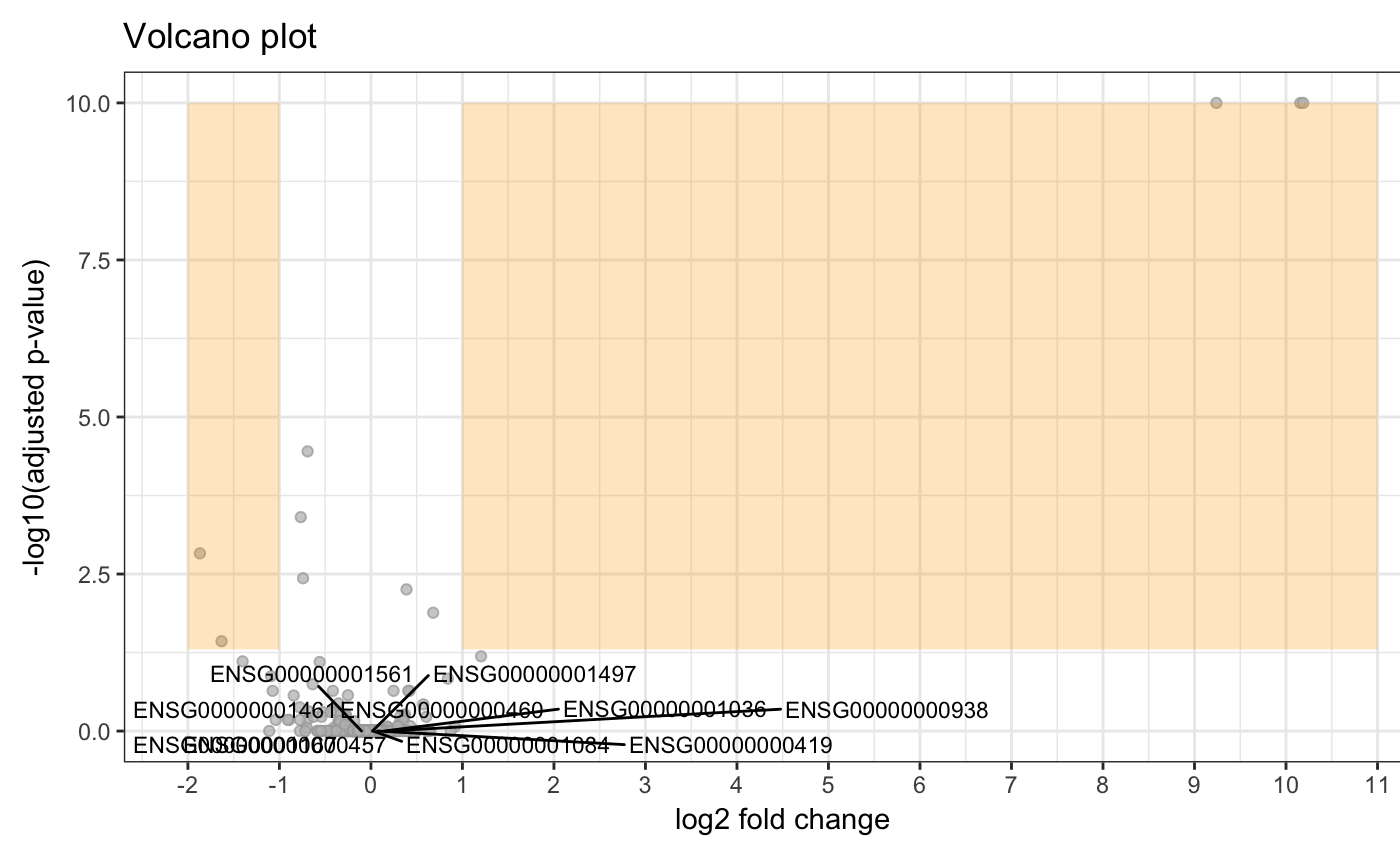
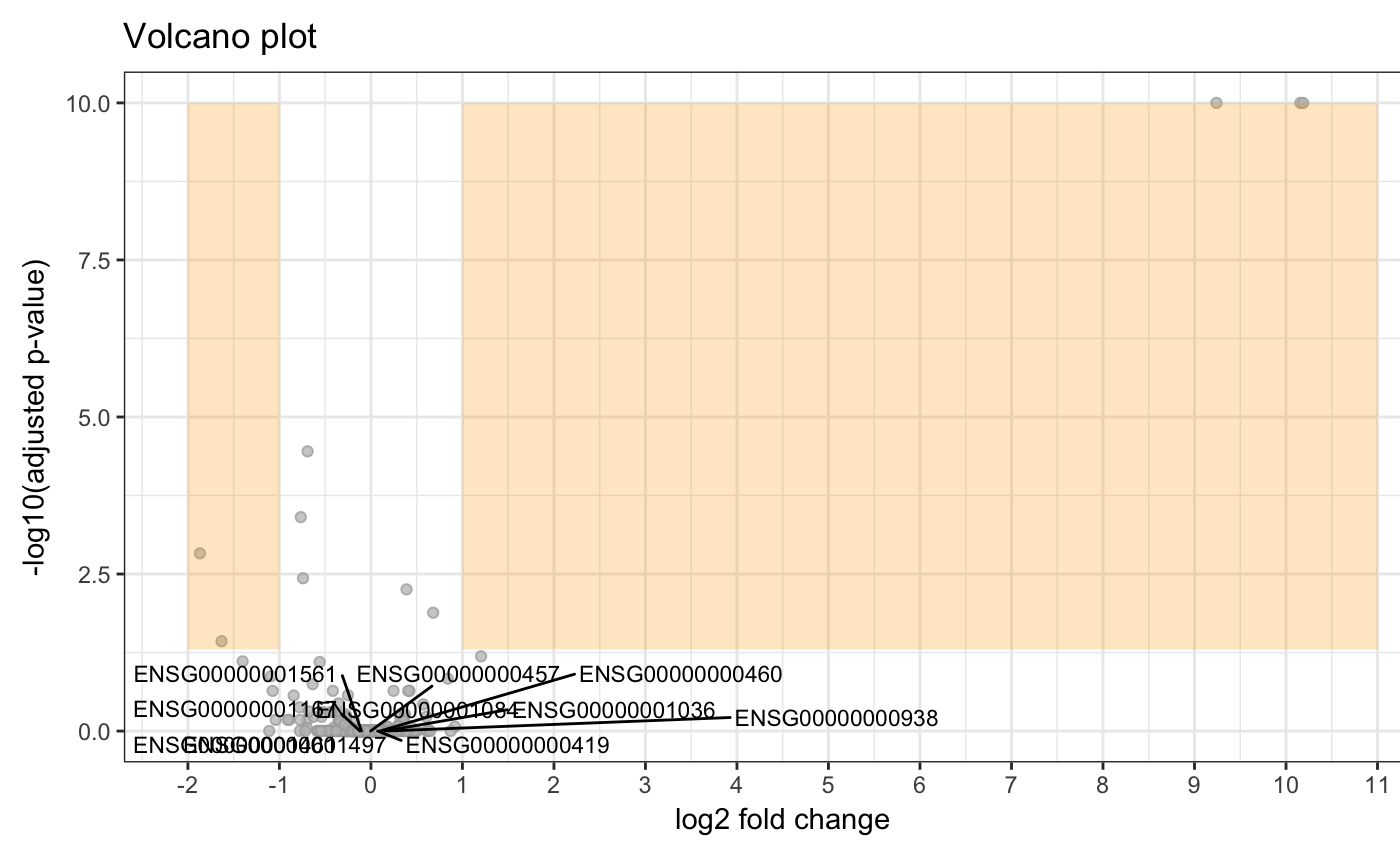
Fix example in degPattern. Updates docs.

Changed region(s): [[0.0921, 0.7491, 0.7064, 0.874]]

diff --git a/docs/reference/significants.html b/docs/reference/significants.html
@@ -165,28 +165,46 @@ Only used when a list is giving to the method.</p></td>
 
     <h2 class="hasAnchor" id="examples"><a class="anchor" href="#examples"></a>Examples</h2>
     <pre class="examples"><div class='input'><span class='fu'>library</span>(<span class='no'>DESeq2</span>)
-<span class='fu'>library</span>(<span class='no'>dplyr</span>)
-<span class='no'>dds</span> <span class='kw'>&lt;-</span> <span class='fu'><a href='http://www.rdocumentation.org/packages/DESeq2/topics/makeExampleDESeqDataSet'>makeExampleDESeqDataSet</a></span>(<span class='kw'>betaSD</span><span class='kw'>=</span><span class='fl'>1</span>)
+<span class='fu'>library</span>(<span class='no'>dplyr</span>)</div><div class='output co'>#&gt; <span class='message'></span>
+#&gt; <span class='message'>Attaching package: ‘dplyr’</span></div><div class='output co'>#&gt; <span class='message'>The following object is masked from ‘package:matrixStats’:</span>
+#&gt; <span class='message'></span>
+#&gt; <span class='message'>    count</span></div><div class='output co'>#&gt; <span class='message'>The following objects are masked from ‘package:Biobase’:</span>
+#&gt; <span class='message'></span>
+#&gt; <span class='message'>    combine, exprs</span></div><div class='output co'>#&gt; <span class='message'>The following objects are masked from ‘package:GenomicRanges’:</span>
+#&gt; <span class='message'></span>
+#&gt; <span class='message'>    intersect, setdiff, union</span></div><div class='output co'>#&gt; <span class='message'>The following object is masked from ‘package:GenomeInfoDb’:</span>
+#&gt; <span class='message'></span>
+#&gt; <span class='message'>    intersect</span></div><div class='output co'>#&gt; <span class='message'>The following objects are masked from ‘package:IRanges’:</span>
+#&gt; <span class='message'></span>
+#&gt; <span class='message'>    collapse, desc, intersect, setdiff, slice, union</span></div><div class='output co'>#&gt; <span class='message'>The following objects are masked from ‘package:S4Vectors’:</span>
+#&gt; <span class='message'></span>
+#&gt; <span class='message'>    first, intersect, rename, setdiff, setequal, union</span></div><div class='output co'>#&gt; <span class='message'>The following objects are masked from ‘package:BiocGenerics’:</span>
+#&gt; <span class='message'></span>
+#&gt; <span class='message'>    combine, intersect, setdiff, union</span></div><div class='output co'>#&gt; <span class='message'>The following objects are masked from ‘package:stats’:</span>
+#&gt; <span class='message'></span>
+#&gt; <span class='message'>    filter, lag</span></div><div class='output co'>#&gt; <span class='message'>The following objects are masked from ‘package:base’:</span>
+#&gt; <span class='message'></span>
+#&gt; <span class='message'>    intersect, setdiff, setequal, union</span></div><div class='input'><span class='no'>dds</span> <span class='kw'>&lt;-</span> <span class='fu'><a href='http://www.rdocumentation.org/packages/DESeq2/topics/makeExampleDESeqDataSet'>makeExampleDESeqDataSet</a></span>(<span class='kw'>betaSD</span><span class='kw'>=</span><span class='fl'>1</span>)
 <span class='fu'>colData</span>(<span class='no'>dds</span>)<span class='kw'>[[</span><span class='st'>"treatment"</span>]] <span class='kw'>&lt;-</span> <span class='fu'><a href='http://dplyr.tidyverse.org/reference/sample.html'>sample</a></span>(<span class='fu'>colData</span>(<span class='no'>dds</span>)<span class='kw'>[[</span><span class='st'>"condition"</span>]], <span class='fl'>12</span>)
   <span class='fu'><a href='http://www.rdocumentation.org/packages/DESeq2/topics/design'>design</a></span>(<span class='no'>dds</span>) <span class='kw'>&lt;-</span>  ~ <span class='no'>condition</span> + <span class='no'>treatment</span>
 <span class='no'>dds</span> <span class='kw'>&lt;-</span> <span class='fu'><a href='http://www.rdocumentation.org/packages/DESeq2/topics/DESeq'>DESeq</a></span>(<span class='no'>dds</span>)</div><div class='output co'>#&gt; <span class='message'>estimating size factors</span></div><div class='output co'>#&gt; <span class='message'>estimating dispersions</span></div><div class='output co'>#&gt; <span class='message'>gene-wise dispersion estimates</span></div><div class='output co'>#&gt; <span class='message'>mean-dispersion relationship</span></div><div class='output co'>#&gt; <span class='message'>final dispersion estimates</span></div><div class='output co'>#&gt; <span class='message'>fitting model and testing</span></div><div class='input'><span class='no'>res</span> <span class='kw'>&lt;-</span> <span class='fu'><a href='degComps.html'>degComps</a></span>(<span class='no'>dds</span>, <span class='kw'>contrast</span> <span class='kw'>=</span> <span class='fu'>list</span>(<span class='st'>"treatment_B_vs_A"</span>,
                                      <span class='fu'>c</span>(<span class='st'>"condition"</span>, <span class='st'>"A"</span>, <span class='st'>"B"</span>)))</div><div class='output co'>#&gt; <span class='message'>Doing 2 element(s).</span></div><div class='output co'>#&gt; <span class='message'>Doing results() for each element.</span></div><div class='output co'>#&gt; <span class='message'>Doing lcfSrink() for each element.</span></div><div class='input'><span class='fu'>significants</span>(<span class='no'>res</span>, <span class='kw'>full</span> <span class='kw'>=</span> <span class='fl'>TRUE</span>) <span class='kw'>%&gt;%</span> <span class='no'>head</span></div><div class='output co'>#&gt; # A tibble: 6 x 3
 #&gt;   gene    log2FoldChange_condition_A_vs_B padj_condition_A_vs_B
 #&gt;   &lt;chr&gt;                             &lt;dbl&gt;                 &lt;dbl&gt;
-#&gt; 1 gene10                           -1.35            0.0477     
-#&gt; 2 gene109                          -2.03            0.000000188
-#&gt; 3 gene111                          -1.45            0.0301     
-#&gt; 4 gene116                          -1.37            0.00602    
-#&gt; 5 gene12                           -1.60            0.0177     
-#&gt; 6 gene121                           0.690           0.0410     </div><div class='input'><span class='fu'>significants</span>(<span class='no'>res</span>, <span class='kw'>full</span> <span class='kw'>=</span> <span class='fl'>TRUE</span>, <span class='kw'>padj</span> <span class='kw'>=</span> <span class='fl'>1</span>) <span class='kw'>%&gt;%</span> <span class='no'>head</span> <span class='co'># all genes</span></div><div class='output co'>#&gt; # A tibble: 6 x 5
+#&gt; 1 gene1                              1.64             0.0210   
+#&gt; 2 gene106                           -1.28             0.00621  
+#&gt; 3 gene109                           -1.24             0.0139   
+#&gt; 4 gene11                            -1.23             0.00234  
+#&gt; 5 gene117                            1.45             0.0000949
+#&gt; 6 gene119                           -1.27             0.00400  </div><div class='input'><span class='fu'>significants</span>(<span class='no'>res</span>, <span class='kw'>full</span> <span class='kw'>=</span> <span class='fl'>TRUE</span>, <span class='kw'>padj</span> <span class='kw'>=</span> <span class='fl'>1</span>) <span class='kw'>%&gt;%</span> <span class='no'>head</span> <span class='co'># all genes</span></div><div class='output co'>#&gt; # A tibble: 6 x 5
 #&gt;   gene     log2FoldChange_c… log2FoldChange_… padj_condition_… padj_treatment_…
 #&gt;   &lt;chr&gt;                &lt;dbl&gt;            &lt;dbl&gt;            &lt;dbl&gt;            &lt;dbl&gt;
-#&gt; 1 gene1              - 0.282          -0.734            0.939             0.986
-#&gt; 2 gene10             - 1.35           -0.650            0.0477            1.000
-#&gt; 3 gene100             NA               0.129           NA                 1.000
-#&gt; 4 gene1000            NA               0.101           NA                 1.000
-#&gt; 5 gene101            - 0.127          -0.0294           0.924             1.000
-#&gt; 6 gene102            - 0.512           0.0662           0.529             1.000</div></pre>
+#&gt; 1 gene1                1.64            0.259            0.0210            0.980
+#&gt; 2 gene10               0.510          -0.457            0.583             0.914
+#&gt; 3 gene100              0.875          -0.247            0.201             0.977
+#&gt; 4 gene1000            -0.887           0.0199           0.0774            0.996
+#&gt; 5 gene101              0.149          -0.0370           0.868             0.982
+#&gt; 6 gene102              0.135           0.0286           0.939             0.993</div></pre>
   </div>
   <div class="col-md-3 hidden-xs hidden-sm" id="sidebar">
     <h2>Contents</h2>

diff --git a/docs/reference/degPatterns.html b/docs/reference/degPatterns.html
@@ -241,10 +241,10 @@ some need to be merged or not.</p>
 <span class='fu'>library</span>(<span class='no'>SummarizedExperiment</span>)
 <span class='no'>ma</span> <span class='kw'>&lt;-</span> <span class='fu'><a href='http://www.rdocumentation.org/packages/SummarizedExperiment/topics/SummarizedExperiment-class'>assays</a></span>(<span class='no'>humanGender</span>)<span class='kw'>[[</span><span class='fl'>1</span>]][<span class='fl'>1</span>:<span class='fl'>100</span>,]
 <span class='no'>des</span> <span class='kw'>&lt;-</span> <span class='fu'><a href='http://www.rdocumentation.org/packages/SummarizedExperiment/topics/SummarizedExperiment-class'>colData</a></span>(<span class='no'>humanGender</span>)
-<span class='no'>des</span><span class='kw'>[[</span><span class='st'>"other"</span>]] <span class='kw'>&lt;-</span> <span class='fu'>sample</span>(<span class='fu'>c</span>(<span class='st'>"a"</span>, <span class='st'>"b"</span>), <span class='fl'>85</span>, <span class='kw'>replace</span> <span class='kw'>=</span> <span class='no'>T</span>)
-<span class='no'>res</span> <span class='kw'>&lt;-</span> <span class='fu'>degPatterns</span>(<span class='no'>ma</span>, <span class='no'>des</span>, <span class='kw'>time</span><span class='kw'>=</span><span class='st'>"group"</span>, <span class='kw'>col</span> <span class='kw'>=</span> <span class='st'>"other"</span>)</div><div class='output co'>#&gt; <span class='message'>Working with 100 genes.</span></div><div class='output co'>#&gt; <span class='message'>Working with 66 genes after filtering: minc &gt; 15</span></div><div class='output co'>#&gt; <span class='message'>Joining, by = "merge"</span></div><div class='output co'>#&gt; <span class='message'>Joining, by = "merge"</span></div><div class='img'><img src='degPatterns-1.png' alt='' width='700' height='433' /></div><div class='input'><span class='co'># Use the data yourself for custom figures</span>
-<span class='no'>res</span><span class='kw'>[[</span><span class='st'>"normalized"</span>]] <span class='kw'>%&gt;%</span>
- <span class='fu'>ggplot</span>(<span class='fu'>aes</span>(<span class='no'>group</span>, <span class='no'>value</span>, <span class='kw'>color</span> <span class='kw'>=</span> <span class='no'>other</span>, <span class='kw'>fill</span> <span class='kw'>=</span> <span class='no'>other</span>)) +
+<span class='no'>des</span><span class='kw'>[[</span><span class='st'>"other"</span>]] <span class='kw'>&lt;-</span> <span class='fu'>sample</span>(<span class='fu'>c</span>(<span class='st'>"a"</span>, <span class='st'>"b"</span>), <span class='fl'>85</span>, <span class='kw'>replace</span> <span class='kw'>=</span> <span class='fl'>TRUE</span>)
+<span class='no'>res</span> <span class='kw'>&lt;-</span> <span class='fu'>degPatterns</span>(<span class='no'>ma</span>, <span class='no'>des</span>, <span class='kw'>time</span><span class='kw'>=</span><span class='st'>"group"</span>, <span class='kw'>col</span> <span class='kw'>=</span> <span class='st'>"other"</span>)</div><div class='output co'>#&gt; <span class='message'>Working with 100 genes.</span></div><div class='output co'>#&gt; <span class='message'>Working with 90 genes after filtering: minc &gt; 15</span></div><div class='output co'>#&gt; <span class='message'>Joining, by = "merge"</span></div><div class='output co'>#&gt; <span class='message'>Joining, by = "merge"</span></div><div class='img'><img src='degPatterns-1.png' alt='' width='700' height='433' /></div><div class='input'><span class='co'># Use the data yourself for custom figures</span>
+ <span class='fu'>ggplot</span>(<span class='no'>res</span><span class='kw'>[[</span><span class='st'>"normalized"</span>]],
+        <span class='fu'>aes</span>(<span class='no'>group</span>, <span class='no'>value</span>, <span class='kw'>color</span> <span class='kw'>=</span> <span class='no'>other</span>, <span class='kw'>fill</span> <span class='kw'>=</span> <span class='no'>other</span>)) +
   <span class='fu'>geom_boxplot</span>() +
    <span class='fu'>geom_point</span>(<span class='kw'>position</span> <span class='kw'>=</span> <span class='fu'>position_jitterdodge</span>(<span class='kw'>dodge.width</span> <span class='kw'>=</span> <span class='fl'>0.9</span>)) +
    <span class='co'># change the method to make it smoother</span>

diff --git a/docs/reference/degColors.html b/docs/reference/degColors.html
@@ -142,8 +142,16 @@ multi-levels categorical variables.</p></td>
     <h2 class="hasAnchor" id="examples"><a class="anchor" href="#examples"></a>Examples</h2>
     <pre class="examples"><div class='input'><span class='fu'>data</span>(<span class='no'>humanGender</span>)
 <span class='fu'>library</span>(<span class='no'>DESeq2</span>)
-<span class='fu'>library</span>(<span class='no'>ComplexHeatmap</span>)
-<span class='no'>idx</span> <span class='kw'>&lt;-</span> <span class='fu'>c</span>(<span class='fl'>1</span>:<span class='fl'>10</span>, <span class='fl'>75</span>:<span class='fl'>85</span>)
+<span class='fu'>library</span>(<span class='no'>ComplexHeatmap</span>)</div><div class='output co'>#&gt; <span class='message'>Loading required package: grid</span></div><div class='output co'>#&gt; <span class='message'>========================================</span>
+#&gt; <span class='message'>ComplexHeatmap version 1.17.1</span>
+#&gt; <span class='message'>Bioconductor page: http://bioconductor.org/packages/ComplexHeatmap/</span>
+#&gt; <span class='message'>Github page: https://github.com/jokergoo/ComplexHeatmap</span>
+#&gt; <span class='message'>Documentation: http://bioconductor.org/packages/ComplexHeatmap/</span>
+#&gt; <span class='message'></span>
+#&gt; <span class='message'>If you use it in published research, please cite:</span>
+#&gt; <span class='message'>Gu, Z. Complex heatmaps reveal patterns and correlations in multidimensional </span>
+#&gt; <span class='message'>  genomic data. Bioinformatics 2016.</span>
+#&gt; <span class='message'>========================================</span></div><div class='input'><span class='no'>idx</span> <span class='kw'>&lt;-</span> <span class='fu'>c</span>(<span class='fl'>1</span>:<span class='fl'>10</span>, <span class='fl'>75</span>:<span class='fl'>85</span>)
 <span class='no'>dse</span> <span class='kw'>&lt;-</span> <span class='fu'><a href='http://www.rdocumentation.org/packages/DESeq2/topics/DESeqDataSet'>DESeqDataSetFromMatrix</a></span>(<span class='fu'>assays</span>(<span class='no'>humanGender</span>)<span class='kw'>[[</span><span class='fl'>1</span>]][<span class='fl'>1</span>:<span class='fl'>10</span>, <span class='no'>idx</span>],
   <span class='fu'>colData</span>(<span class='no'>humanGender</span>)[<span class='no'>idx</span>,], <span class='kw'>design</span><span class='kw'>=</span>~<span class='no'>group</span>)
 <span class='no'>th</span> <span class='kw'>&lt;-</span> <span class='fu'><a href='http://www.rdocumentation.org/packages/ComplexHeatmap/topics/HeatmapAnnotation'>HeatmapAnnotation</a></span>(<span class='kw'>df</span> <span class='kw'>=</span> <span class='fu'>colData</span>(<span class='no'>dse</span>),

diff --git a/docs/reference/degVolcano.html b/docs/reference/degVolcano.html
@@ -179,7 +179,7 @@ right side of the volcano plot.</p>
 <span class='no'>dds</span> <span class='kw'>&lt;-</span> <span class='fu'><a href='http://www.rdocumentation.org/packages/DESeq2/topics/makeExampleDESeqDataSet'>makeExampleDESeqDataSet</a></span>(<span class='kw'>betaSD</span> <span class='kw'>=</span> <span class='fl'>1</span>)
 <span class='no'>dds</span> <span class='kw'>&lt;-</span> <span class='fu'><a href='http://www.rdocumentation.org/packages/DESeq2/topics/DESeq'>DESeq</a></span>(<span class='no'>dds</span>)</div><div class='output co'>#&gt; <span class='message'>estimating size factors</span></div><div class='output co'>#&gt; <span class='message'>estimating dispersions</span></div><div class='output co'>#&gt; <span class='message'>gene-wise dispersion estimates</span></div><div class='output co'>#&gt; <span class='message'>mean-dispersion relationship</span></div><div class='output co'>#&gt; <span class='message'>final dispersion estimates</span></div><div class='output co'>#&gt; <span class='message'>fitting model and testing</span></div><div class='input'><span class='no'>stats</span> <span class='kw'>&lt;-</span> <span class='fu'><a href='http://www.rdocumentation.org/packages/DESeq2/topics/results'>results</a></span>(<span class='no'>dds</span>)[,<span class='fu'>c</span>(<span class='st'>"log2FoldChange"</span>, <span class='st'>"padj"</span>)]
 <span class='no'>stats</span><span class='kw'>[[</span><span class='st'>"name"</span>]] <span class='kw'>&lt;-</span> <span class='fu'>row.names</span>(<span class='no'>stats</span>)
-<span class='fu'>degVolcano</span>(<span class='no'>stats</span>, <span class='kw'>plot_text</span> <span class='kw'>=</span> <span class='no'>stats</span>[<span class='fl'>1</span>:<span class='fl'>10</span>,])</div><div class='output co'>#&gt; <span class='warning'>Warning: Removed 2 rows containing missing values (geom_text_repel).</span></div><div class='img'><img src='degVolcano-1.png' alt='' width='700' height='433' /></div></pre>
+<span class='fu'>degVolcano</span>(<span class='no'>stats</span>, <span class='kw'>plot_text</span> <span class='kw'>=</span> <span class='no'>stats</span>[<span class='fl'>1</span>:<span class='fl'>10</span>,])</div><div class='output co'>#&gt; <span class='warning'>Warning: Removed 1 rows containing missing values (geom_text_repel).</span></div><div class='img'><img src='degVolcano-1.png' alt='' width='700' height='433' /></div></pre>
   </div>
   <div class="col-md-3 hidden-xs hidden-sm" id="sidebar">
     <h2>Contents</h2>

diff --git a/docs/reference/degMV.html b/docs/reference/degMV.html
@@ -149,7 +149,10 @@ row number should be the same length than pvalues vector.</p></td>
 #&gt; <span class='message'>-- original counts are preserved in counts(dds)</span></div><div class='output co'>#&gt; <span class='message'>estimating dispersions</span></div><div class='output co'>#&gt; <span class='message'>fitting model and testing</span></div><div class='input'><span class='no'>res</span> <span class='kw'>&lt;-</span> <span class='fu'><a href='http://www.rdocumentation.org/packages/DESeq2/topics/results'>results</a></span>(<span class='no'>dds</span>)
 <span class='fu'>degMV</span>(<span class='fu'>colData</span>(<span class='no'>dds</span>)<span class='kw'>[[</span><span class='st'>"group"</span>]],
       <span class='no'>res</span>[, <span class='fl'>4</span>],
-      <span class='fu'><a href='http://www.rdocumentation.org/packages/DESeq2/topics/counts'>counts</a></span>(<span class='no'>dds</span>, <span class='kw'>normalized</span> <span class='kw'>=</span> <span class='fl'>TRUE</span>))</div><div class='output co'>#&gt; <span class='warning'>Warning: Removed 1 rows containing non-finite values (stat_quantile).</span></div><div class='img'><img src='degMV-1.png' alt='' width='700' height='433' /></div></pre>
+      <span class='fu'><a href='http://www.rdocumentation.org/packages/DESeq2/topics/counts'>counts</a></span>(<span class='no'>dds</span>, <span class='kw'>normalized</span> <span class='kw'>=</span> <span class='fl'>TRUE</span>))</div><div class='output co'>#&gt; <span class='warning'>Warning: Removed 1 rows containing non-finite values (stat_quantile).</span></div><div class='output co'>#&gt; <span class='message'>Loading required package: SparseM</span></div><div class='output co'>#&gt; <span class='message'></span>
+#&gt; <span class='message'>Attaching package: ‘SparseM’</span></div><div class='output co'>#&gt; <span class='message'>The following object is masked from ‘package:base’:</span>
+#&gt; <span class='message'></span>
+#&gt; <span class='message'>    backsolve</span></div><div class='img'><img src='degMV-1.png' alt='' width='700' height='433' /></div></pre>
   </div>
   <div class="col-md-3 hidden-xs hidden-sm" id="sidebar">
     <h2>Contents</h2>

diff --git a/docs/reference/geom_cor.html b/docs/reference/geom_cor.html
@@ -152,6 +152,14 @@ often aesthetics, used to set an aesthetic to a fixed value, like
 <code>color = "red"</code> or <code>size = 3</code>. They may also be parameters
 to the paired geom/stat.</p></td>
     </tr>
+    <tr>
+      <th>ypos</th>
+      <td><p>Locate text at that position on the y axis.</p></td>
+    </tr>
+    <tr>
+      <th>xpos</th>
+      <td><p>Locate text at that position on the x axis.</p></td>
+    </tr>
     </table>
     
     <h2 class="hasAnchor" id="details"><a class="anchor" href="#details"></a>Details</h2>
@@ -171,7 +179,8 @@ ggplot2 <a href='https://cran.r-project.org/web/packages/ggplot2/vignettes/exten
 <span class='fu'><a href='http://www.rdocumentation.org/packages/ggplot2/topics/ggplot'>ggplot</a></span>(<span class='fu'>as.data.frame</span>(<span class='fu'><a href='http://www.rdocumentation.org/packages/SummarizedExperiment/topics/SummarizedExperiment-class'>assay</a></span>(<span class='no'>humanGender</span>)[<span class='fl'>1</span>:<span class='fl'>1000</span>,]),
        <span class='fu'><a href='http://www.rdocumentation.org/packages/ggplot2/topics/aes'>aes</a></span>(<span class='kw'>x</span> <span class='kw'>=</span> <span class='no'>NA20502</span>, <span class='kw'>y</span> <span class='kw'>=</span> <span class='no'>NA20504</span>)) +
   <span class='fu'><a href='http://www.rdocumentation.org/packages/ggplot2/topics/geom_point'>geom_point</a></span>() +
-  <span class='fu'>geom_cor</span>(<span class='kw'>method</span> <span class='kw'>=</span> <span class='st'>"kendall"</span>)</div><div class='img'><img src='geom_cor-1.png' alt='' width='700' height='433' /></div></pre>
+  <span class='fu'><a href='http://www.rdocumentation.org/packages/ggplot2/topics/lims'>ylim</a></span>(<span class='fl'>0</span>,<span class='fl'>1.1e5</span>) +
+  <span class='fu'>geom_cor</span>(<span class='kw'>method</span> <span class='kw'>=</span> <span class='st'>"kendall"</span>, <span class='kw'>ypos</span> <span class='kw'>=</span> <span class='fl'>1e5</span>)</div><div class='img'><img src='geom_cor-1.png' alt='' width='700' height='433' /></div></pre>
   </div>
   <div class="col-md-3 hidden-xs hidden-sm" id="sidebar">
     <h2>Contents</h2>

diff --git a/docs/articles/DEGreport.html b/docs/articles/DEGreport.html
@@ -63,7 +63,7 @@
       <h1>QC and downstream analysis for differential expression RNA-seq</h1>
                         <h4 class="author">Lorena Pantano</h4>
             
-            <h4 class="date">7 June 2018</h4>
+            <h4 class="date">8 June 2018</h4>
       
       
       <div class="hidden name"><code>DEGreport.Rmd</code></div>
